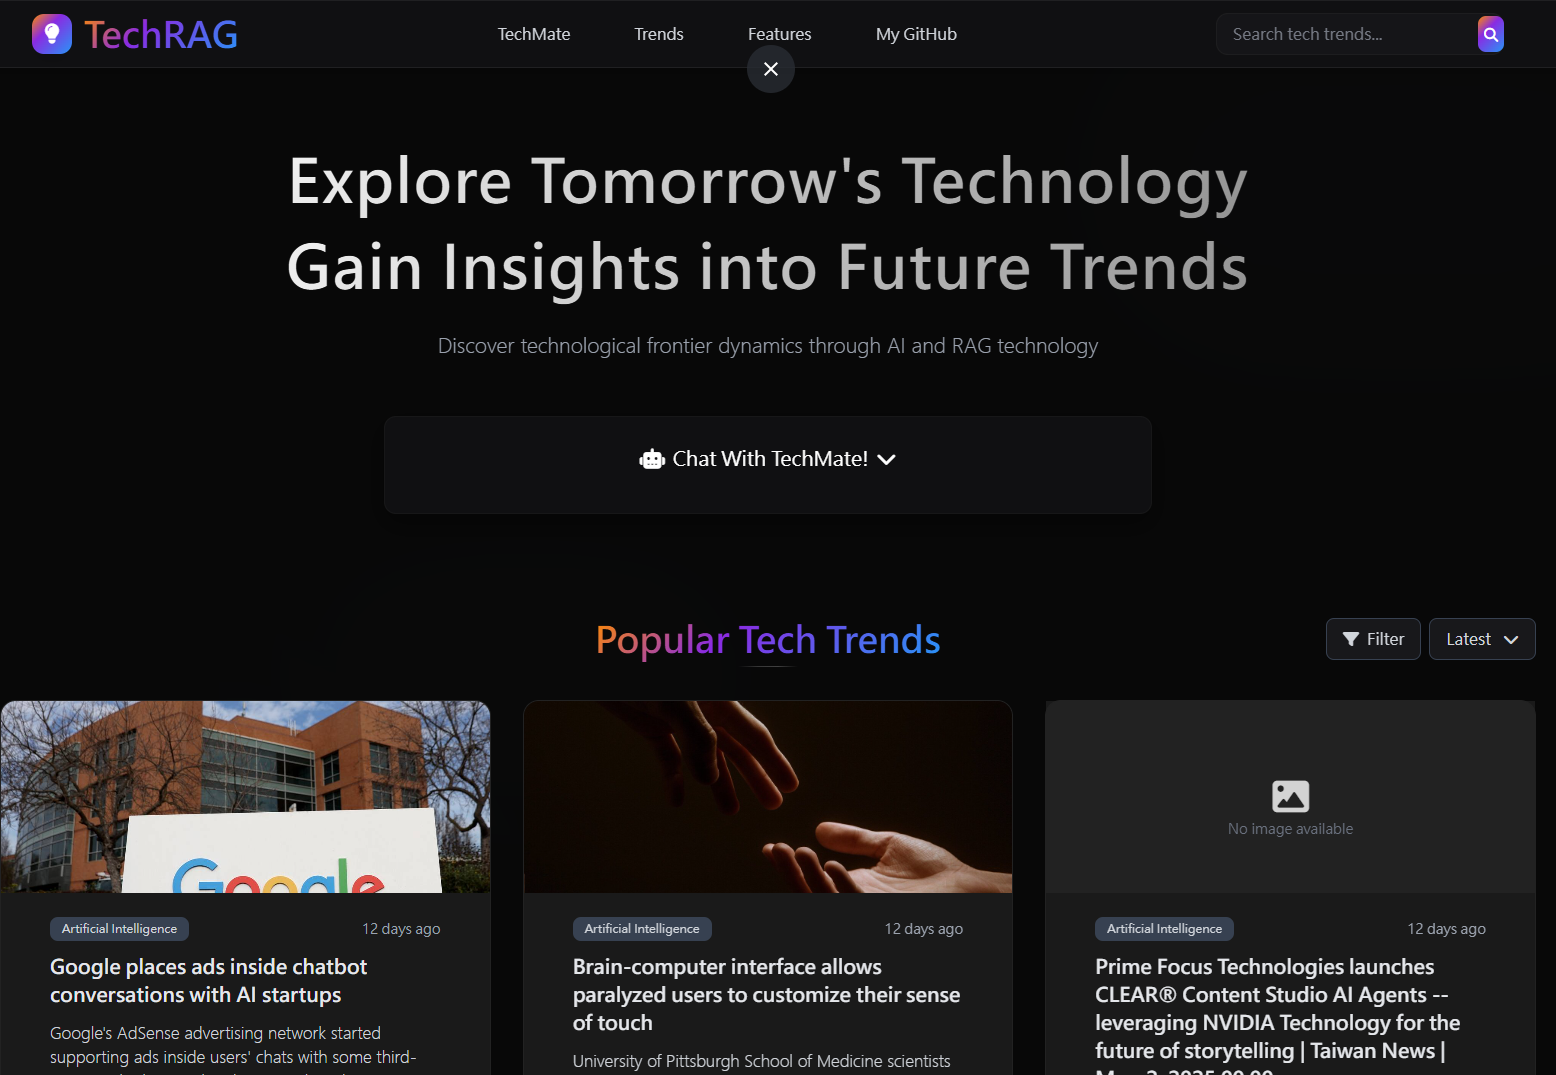
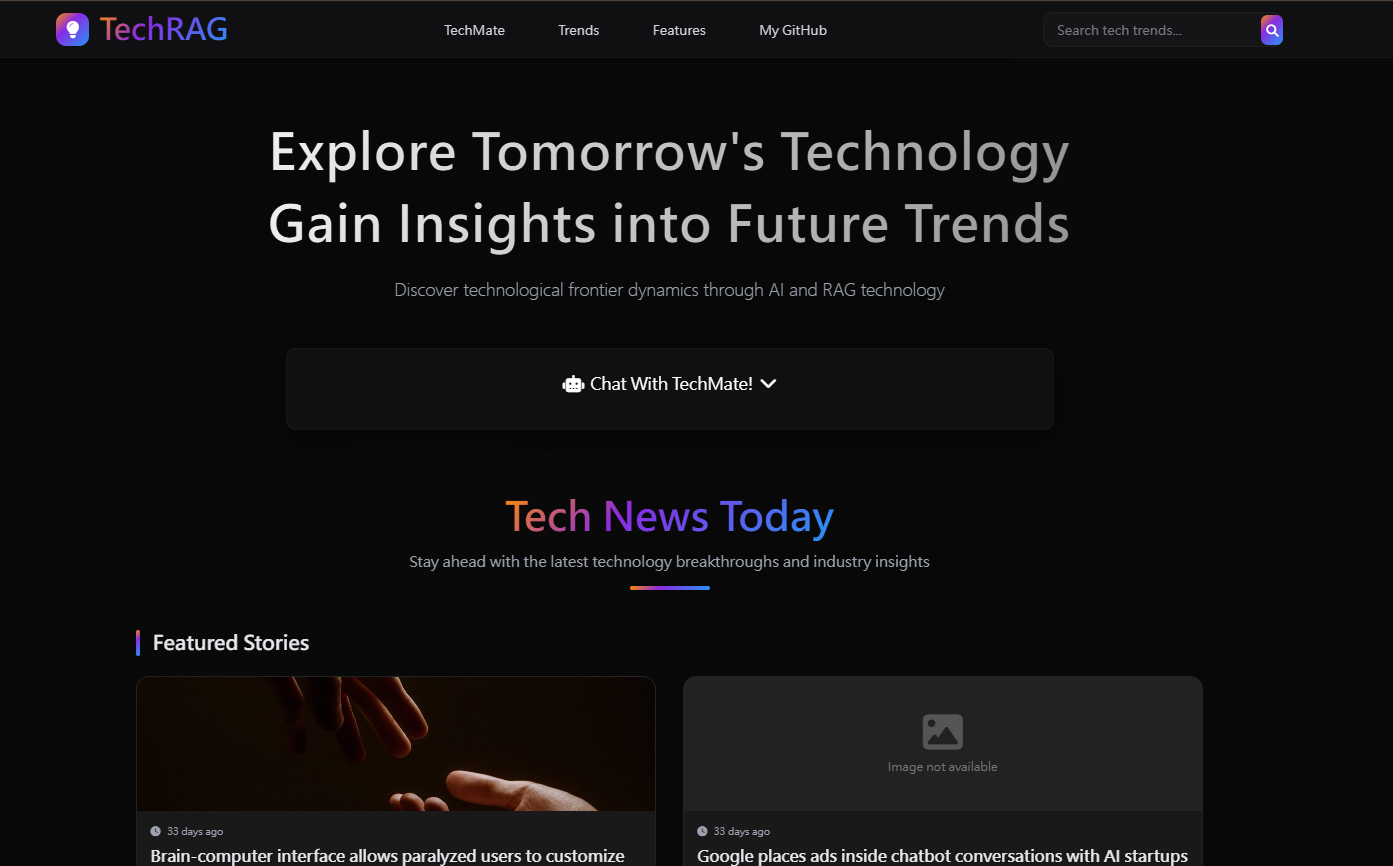
update README

diff --git a/README.md b/README.md
@@ -4,9 +4,20 @@ Leverage **Large Language Models (LLMs)** and **Retrieval-Augmented Generation (
 
 ---
 
-**Demo Video:** [YouTube](https://youtu.be/GjZI6MO7e0w)
+**Demo Video :** [YouTube](https://youtu.be/o6T33C9SBcM)
 
 ![專案截圖](index.png)
+
+![新聞截圖](news.png)
+
+![聊天截圖](chat.png)
+---
+
+## 🔧 Update
+
+- 2025-06-02: 
+  - Adjust the layout of the news section and chatbot section.
+  - Add a typing effect to the chatbot.
 
 ---
 
@@ -26,8 +37,6 @@ Leverage **Large Language Models (LLMs)** and **Retrieval-Augmented Generation (
   ![Llama3](https://img.shields.io/badge/Llama3-0052CC?style=for-the-badge&logo=meta&logoColor=white)
 - **News Source**:
   ![Event Registry](https://img.shields.io/badge/Event%20Registry%20API-FF5722?style=for-the-badge&logo=news&logoColor=white)
-
-![核心功能](features.png)
 
 ## 🎯 Future Features
 
